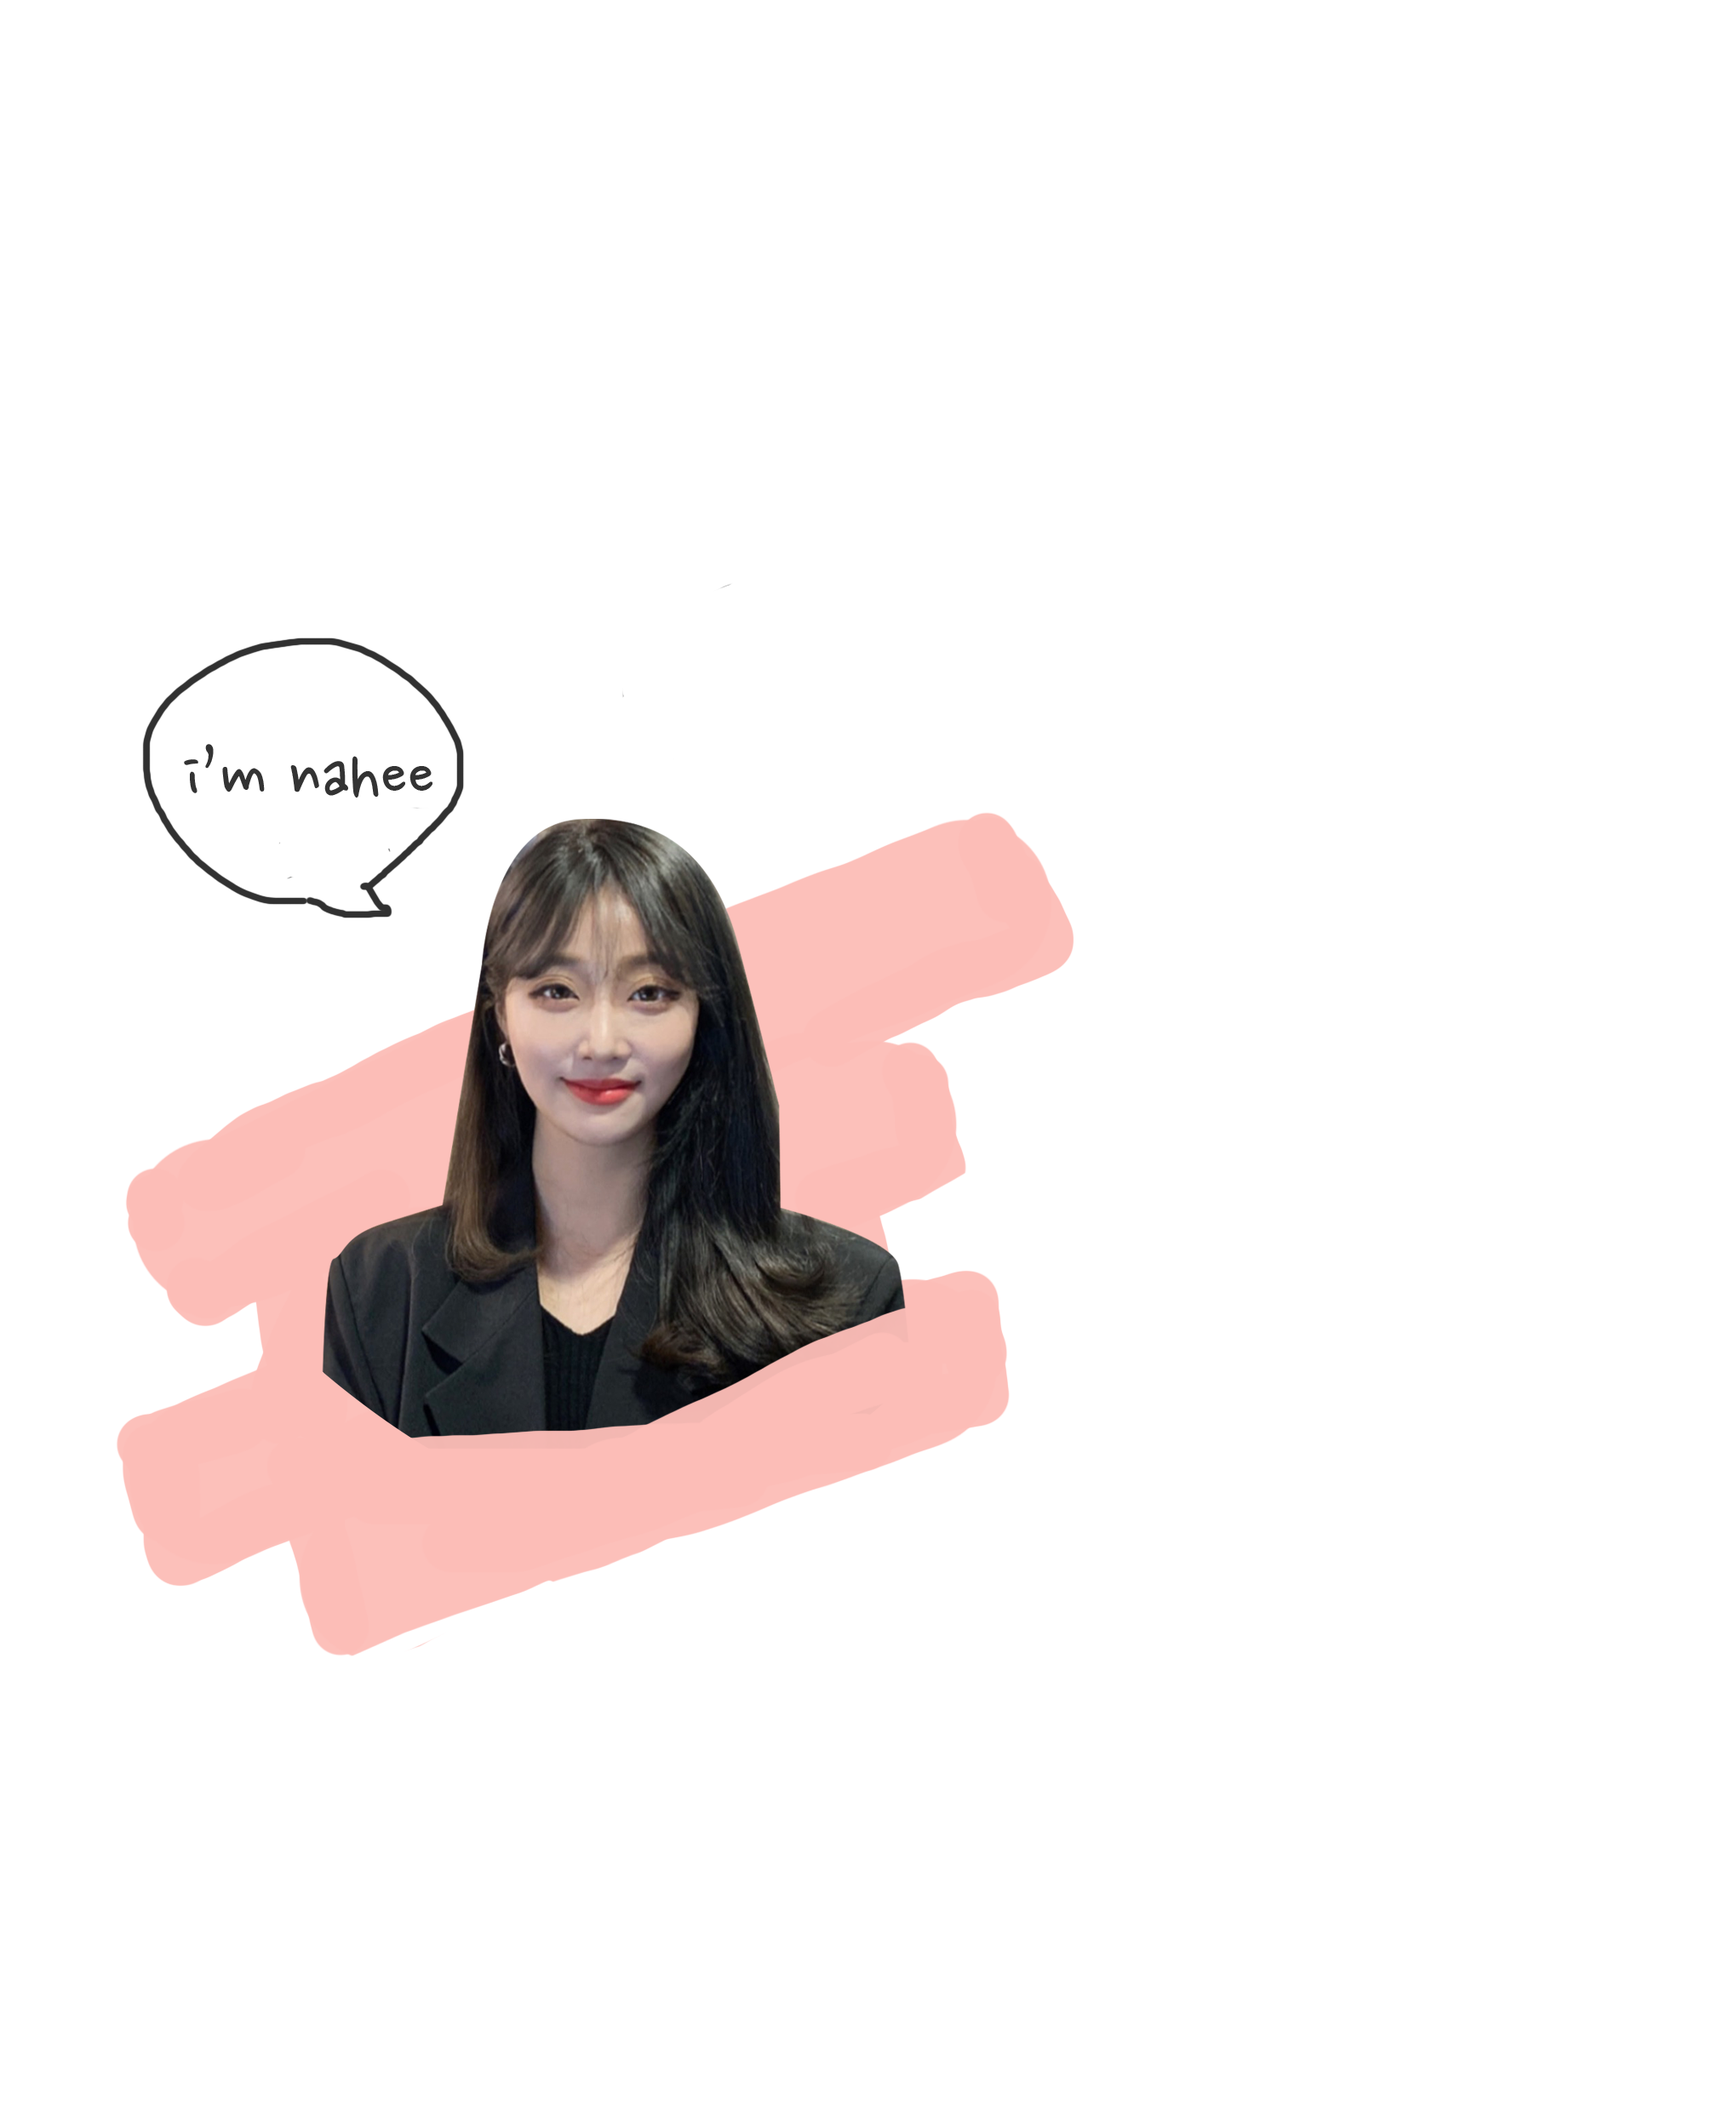
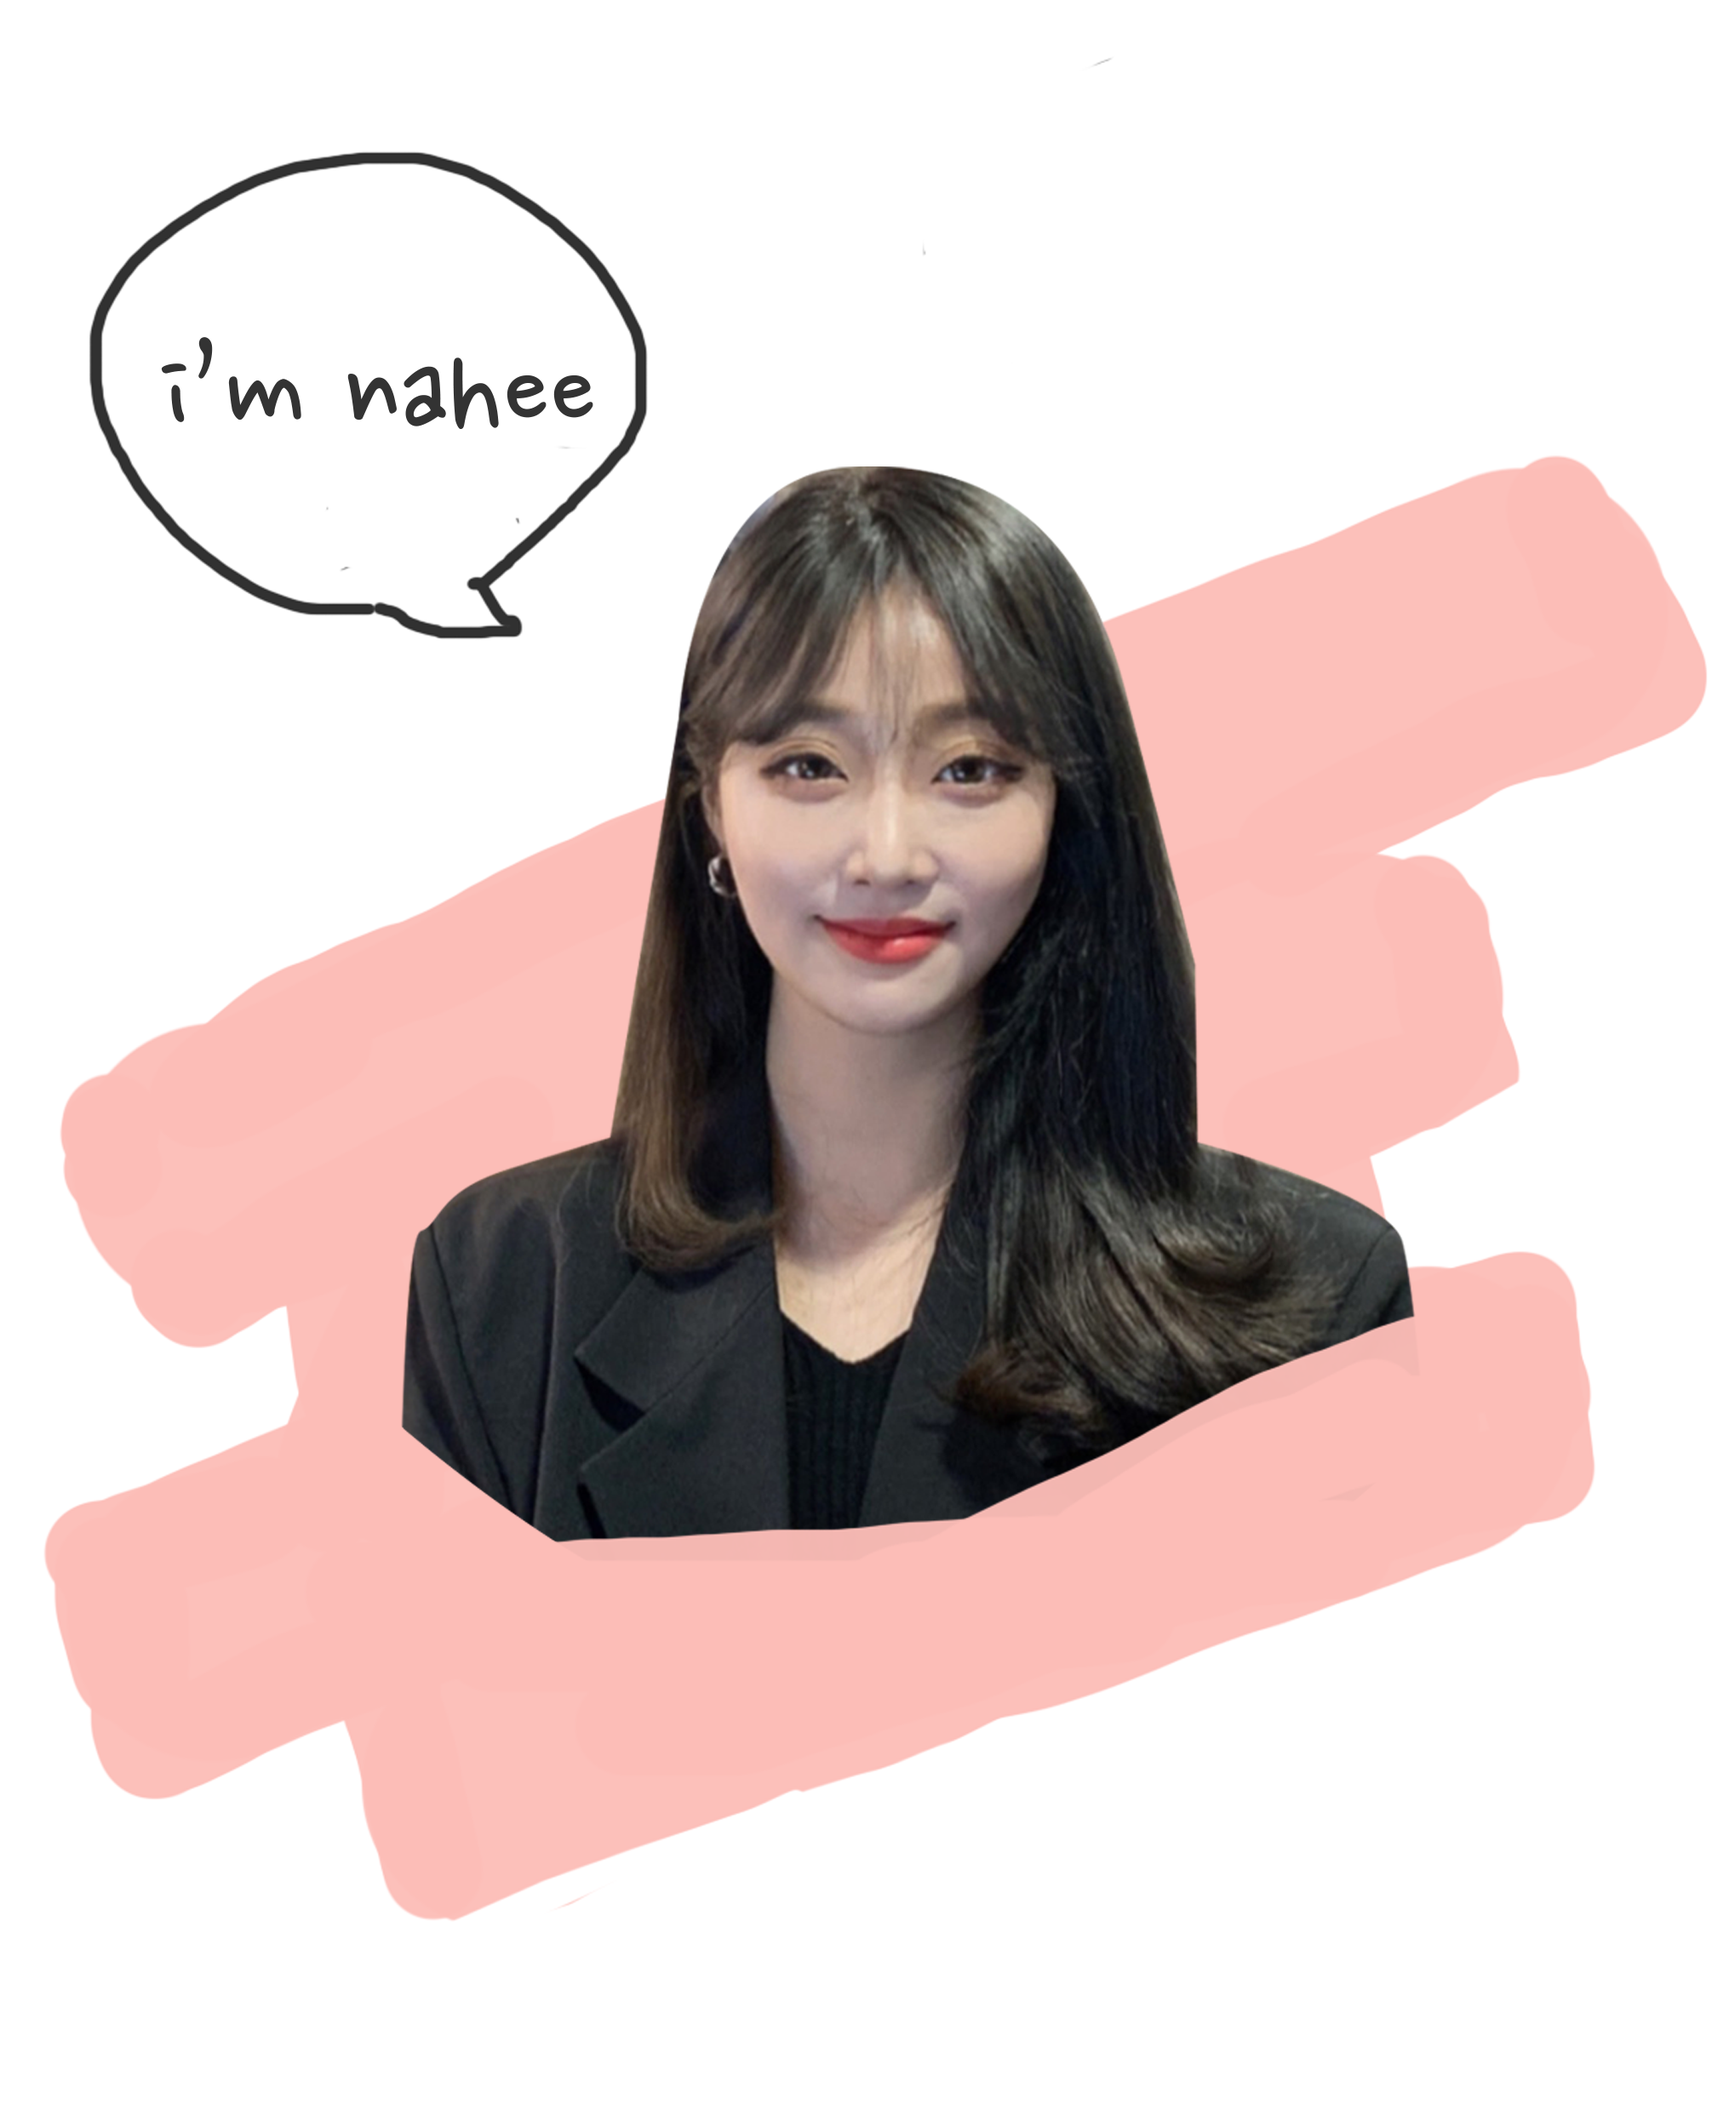
d

diff --git a/css/style.css b/css/style.css
@@ -4,7 +4,7 @@
 html {
   font-size: 1.5rem;
   font-family: 'Lato', sans-serif ;
-  background-color: #feb8c6;
+  background-color: #fde8ed;
 }
 
 body {
@@ -20,16 +20,17 @@ a {
   text-decoration: none;
 }
 #main{
-  padding:20px 50px;
+
   display: flex;
-  position:relative;
-  width: 100%;
+ margin-right: 330px;
+ 
+  
   height: 100vh;
-  box-sizing: border-box;
+
   background-color: #fde8ed;
-  background-image: url("../img/mee.png");
+  background-image: url("../img/mee.png" );
   background-repeat: no-repeat;
-  background-size: 950px; 
+  background-size: 550px; 
   background-position: right bottom;
 }
 nav{

diff --git a/index.html b/index.html
@@ -1,7 +1,7 @@
 <!doctype html>
 <html class="no-js" lang="">
 
-<head>
+<head></head>
     <!--using FontAwesome---------------->
   <script src="https://kit.fontawesome.com/c8e4d183c2.js" crossorigin="anonymous"></script>
   </head>
